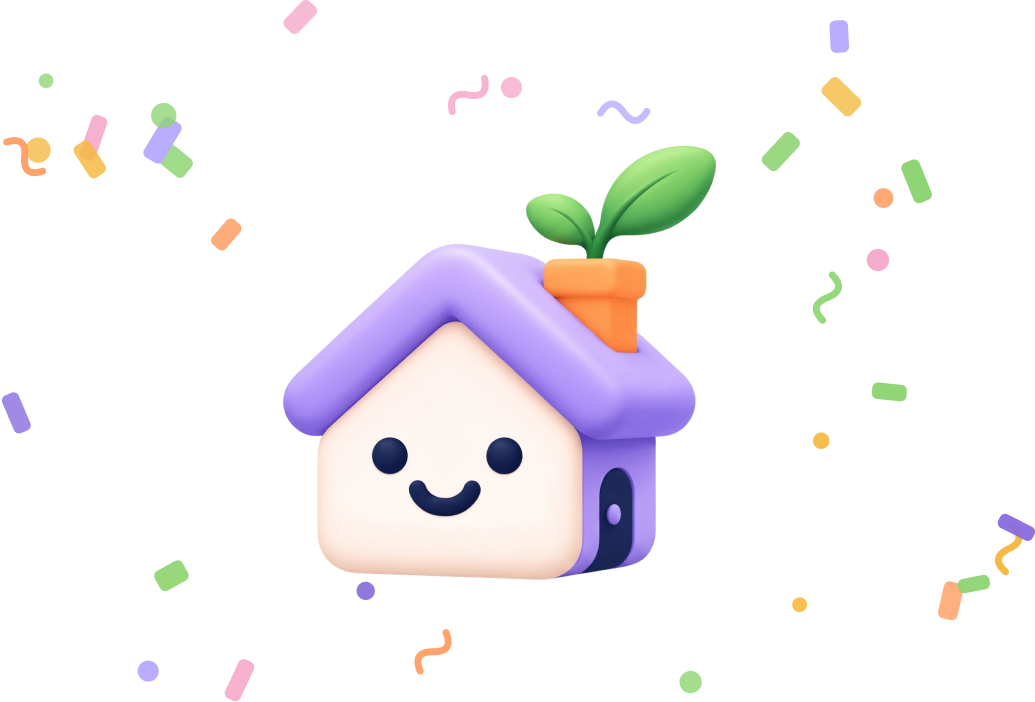
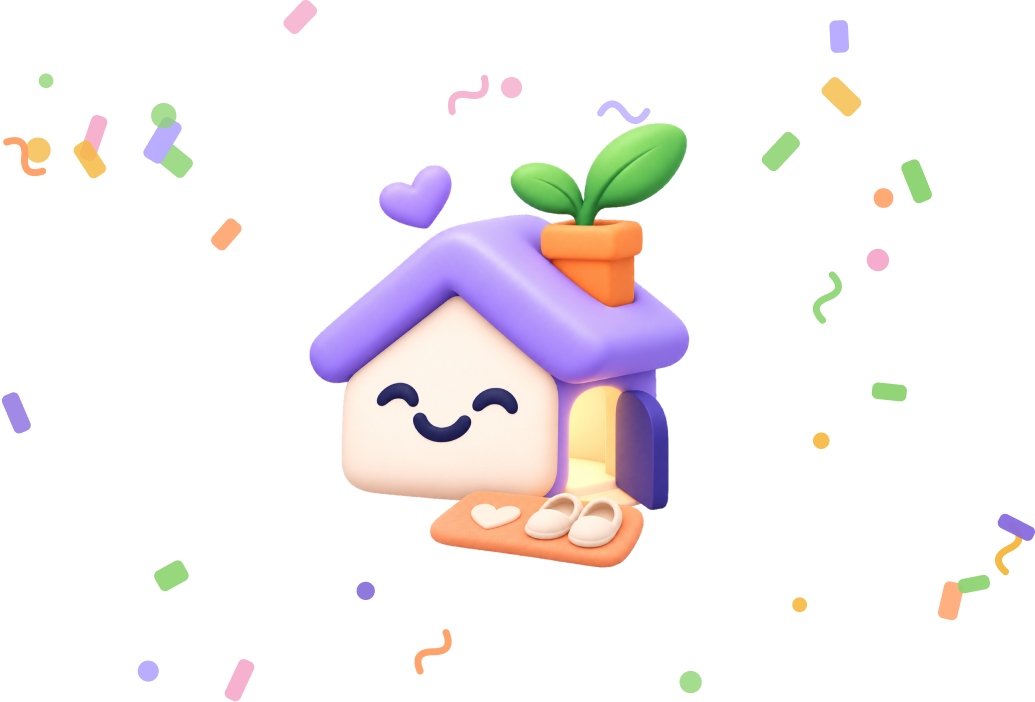
feat(app): the door-and-slippers art on every screen before Home, at the small size
Welcome back, All set and You're in now share the open-door art (the last two inside
the confetti), sized like the email code art.

Changed region(s): [[0.2473, 0.1496, 0.7111, 0.8376]]

diff --git a/apps/mobile/src/app/auth/welcome-back.tsx b/apps/mobile/src/app/auth/welcome-back.tsx
@@ -18,7 +18,7 @@ export default function WelcomeBack() {
   return (
     <Page scroll={false} gap={20}>
       <View style={{ alignItems: 'center', marginTop: 40 }}>
-        <Image source={require('../../../assets/art/welcome-back.png')} style={{ width: 200, height: 200 }} contentFit="contain" />
+        <Image source={require('../../../assets/art/welcome-back.png')} style={{ width: 132, height: 154 }} contentFit="contain" />
       </View>
       <View style={{ gap: 10, alignItems: 'center' }}>
         <Txt v="Title/Onboarding" style={{ textAlign: 'center' }} accessibilityRole="header">{`Welcome back,\n${name}.`}</Txt>
